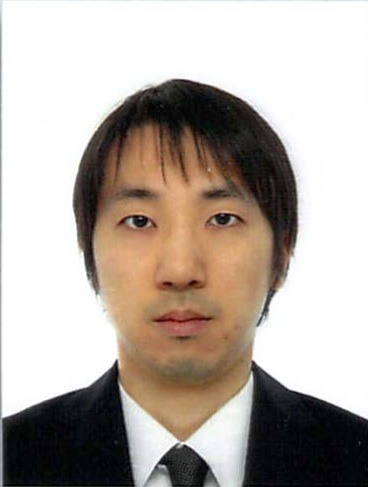
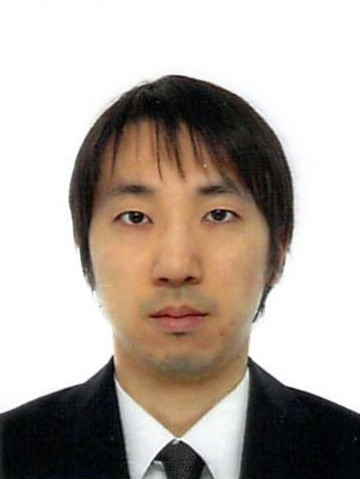
site: 著書セクションを追加し、写真・文言を先生のご指示どおりに更新
- 著書：日本語8冊・英語6冊の表紙を Apple のプロダクト棚として追加
  （§4 分人ファイアウォール検査済＝黒沢亜美名義の混入0件・陰性対照つき）
- 写真：Hidenori Tani color2.jpg（360x479）に差し替え
- 「RNA生物学」→「RNA生物学グループ」
- 日本語ページの見出しから「、」「。」を削除（本文の句読点は可読性のため保持）
- 「単著」の強調をやめ「グループから」に変更
- height:auto を追加＝height属性による縦横比の破壊を修正（写真が縦長に見えた原因）
- style.css にバージョンを付与＝更新がキャッシュで隠れないように

検証（実測・両ページ）：画像の読込失敗0・alt無0・縦横比の歪み0・拡大0／
h1は各1個／空リンク0／横スクロールなし／40px未満のタップ標的0／
面の並び 黒→黒→灰→白→黒→白→灰→黒／日本語見出し8本すべて句読点なし。

diff --git a/index.html b/index.html
@@ -6,7 +6,7 @@
 <title>谷英典 | 横浜薬科大学 薬学部 — RNA生物学グループ</title>
 <meta name="description" content="長鎖ノンコーディングRNA（lncRNA）の機能解明とRNA創薬。RNAがどれだけ生きるかを測る研究室。横浜薬科大学 薬学部 谷英典。">
 <link rel="icon" href="favicon.svg" type="image/svg+xml">
-<link rel="stylesheet" href="style.css?v=2023ac54">
+<link rel="stylesheet" href="style.css?v=f0f4de6f">
 </head>
 <body>
 
@@ -14,7 +14,7 @@
 <section class="panel panel--dark">
   <div class="wrap center">
     <p class="eyebrow">横浜薬科大学 薬学部　RNA生物学グループ</p>
-    <h1 class="display">RNAは、<br>どれだけ生きるのか。</h1>
+    <h1 class="display">RNAは<br>どれだけ生きるのか</h1>
     <p class="intro read">
       細胞のなかで、RNAはいつ作られ、いつ壊されるのか。
       私たちはその時間軸を測ることで、長鎖ノンコーディングRNA の
@@ -57,7 +57,7 @@
 <!-- ===== 数字 ===== -->
 <section class="panel panel--dark panel--tight">
   <div class="wrap center">
-    <h2 class="headline">単著で、積み上げてきた。</h2>
+    <h2 class="headline">グループから<br>積み上げてきた</h2>
     <div class="stats">
       <div class="stat rise"><span class="n">49</span><span class="k">原著論文</span></div>
       <div class="stat rise"><span class="n">22</span><span class="k">総説</span></div>
@@ -73,7 +73,7 @@
 <section class="panel panel--gray" id="research">
   <div class="wrap center">
     <p class="eyebrow">研究</p>
-    <h2 class="headline">3つの軸で、<br>時間を測る。</h2>
+    <h2 class="headline">3つの軸で<br>時間を測る</h2>
     <div class="grid3">
       <div class="card rise">
         <div class="n">01</div>
@@ -101,7 +101,7 @@
 <section class="panel">
   <div class="wrap center">
     <p class="eyebrow">lncRNA</p>
-    <h2 class="headline">タンパク質を<br>つくらないRNA。</h2>
+    <h2 class="headline">タンパク質を<br>つくらないRNA</h2>
     <p class="intro read">
       200ヌクレオチド以上の長さを持ちながら、タンパク質には翻訳されない。
       それでも細胞のなかで、遺伝子発現の調節から細胞の運命決定までを担っています。
@@ -121,8 +121,8 @@
 <section class="panel panel--dark" id="papers">
   <div class="wrap center">
     <p class="eyebrow">2026</p>
-    <h2 class="headline">この8か月に<br>出したもの。</h2>
-    <p class="intro read">12報。すべて単著。</p>
+    <h2 class="headline">この8か月に<br>出したもの</h2>
+    <p class="intro read">グループから12報</p>
     <ol class="papers" style="text-align:left">
       <li class="paper rise">
         <div class="paper__date">2026.08.26</div>
@@ -229,9 +229,9 @@
 <section class="panel">
   <div class="wrap center">
     <p class="eyebrow">谷 英典</p>
-    <h2 class="headline">測る方法を、<br>つくってきた。</h2>
+    <h2 class="headline">測る方法を<br>つくってきた</h2>
     <div class="person" style="text-align:left">
-      <figure><img src="assets/portrait.jpg" alt="谷英典の顔写真" width="368" height="487"><figcaption>谷 英典　博士（工学）</figcaption></figure>
+      <figure><img src="assets/portrait.jpg" alt="谷英典の顔写真" width="360" height="479"><figcaption>谷 英典　博士（工学）</figcaption></figure>
       <div class="body">
         <p>学部4年で常田聡研究室に配属され、産業技術総合研究所の野田尚宏博士のもとで研究を始めました。博士号を持つ3人が半年取り組んでいた課題を任され、公園を歩いて帰った日にひらめいた解法で解決しました。<strong>ABC-PCR法</strong>です。研究者として歩もうと決めたのは、この瞬間でした。</p>
         <p>東京大学の秋光信佳研究室では <strong>BRIC-seq</strong> を開発し、長鎖ノンコーディングRNA の分解速度をゲノム全体で測ることに成功しました。以来この時間軸が、研究の中心にあり続けています。</p>
@@ -248,10 +248,54 @@
   </div>
 </section>
 
-<!-- ===== 連絡先：薄灰 ===== -->
-<section class="panel panel--gray panel--tight">
+<!-- ===== 著書：薄灰 ===== -->
+<section class="panel panel--gray" id="books">
   <div class="wrap center">
-    <h2 class="headline">共同研究の<br>ご相談を。</h2>
+    <p class="eyebrow">著書</p>
+    <h2 class="headline">同じ問いを<br>本にも書いた</h2>
+    <p class="intro read">半減期のこと 分解のこと 老いていく時間のこと 研究室の外に向けても書いています</p>
+    <div class="shelf">
+        <a class="bk rise" href="https://www.amazon.co.jp/dp/B0DJYLCF1R">
+          <img src="assets/books/rnamrna-6c7377eb.jpg" alt="『RNA創薬革命』の表紙" width="325" height="520" loading="lazy">
+          <p class="bk__t">RNA創薬革命</p>
+        </a>
+        <a class="bk rise" href="https://www.amazon.co.jp/dp/B0H4ZHKY8T">
+          <img src="assets/books/seimei-no-hangenki.jpg" alt="『生命の半減期』の表紙" width="325" height="520" loading="lazy">
+          <p class="bk__t">生命の半減期</p>
+        </a>
+        <a class="bk rise" href="https://www.amazon.co.jp/dp/B0GX32J4RD">
+          <img src="assets/books/rna-no-kyokaisen.jpg" alt="『RNAという境界線』の表紙" width="325" height="520" loading="lazy">
+          <p class="bk__t">RNAという境界線</p>
+        </a>
+        <a class="bk rise" href="https://www.amazon.co.jp/dp/B0H3V9VWCP">
+          <img src="assets/books/kowasu-koto-de-ikiteiru.jpg" alt="『壊すことで生きている』の表紙" width="325" height="520" loading="lazy">
+          <p class="bk__t">壊すことで生きている</p>
+        </a>
+        <a class="bk rise" href="https://www.amazon.co.jp/dp/B0H54M8YSB">
+          <img src="assets/books/idenshi-ni-shirushi.jpg" alt="『遺伝子に印をつけて生きていく』の表紙" width="325" height="520" loading="lazy">
+          <p class="bk__t">遺伝子に印をつけて生きていく</p>
+        </a>
+        <a class="bk rise" href="https://www.amazon.co.jp/dp/B0H65NW324">
+          <img src="assets/books/aging-clock.jpg" alt="『老化時計の科学』の表紙" width="325" height="520" loading="lazy">
+          <p class="bk__t">老化時計の科学</p>
+        </a>
+        <a class="bk rise" href="https://www.amazon.co.jp/dp/B0H857FT9N">
+          <img src="assets/books/brain-aging-myths.jpg" alt="『40歳からの脳の守り方』の表紙" width="325" height="520" loading="lazy">
+          <p class="bk__t">40歳からの脳の守り方</p>
+        </a>
+        <a class="bk rise" href="https://www.amazon.co.jp/dp/B0DBV8DB3L">
+          <img src="assets/books/book-87f9b4f6.jpg" alt="『研究者として生き抜く全技術』の表紙" width="325" height="520" loading="lazy">
+          <p class="bk__t">研究者として生き抜く全技術</p>
+        </a>
+    </div>
+    <p style="margin-top:clamp(36px,5vw,56px)"><a class="link" href="https://hidenori-tani.github.io/hp_books_site/">すべての著書を見る</a></p>
+  </div>
+</section>
+
+<!-- ===== 連絡先：薄灰 ===== -->
+<section class="panel panel--dark panel--tight">
+  <div class="wrap center">
+    <h2 class="headline">共同研究の<br>ご相談を</h2>
     <p class="intro read">〒245-0066　神奈川県横浜市戸塚区俣野町601　横浜薬科大学 薬学部</p>
     <p style="margin-top:30px"><a class="btn" href="mailto:hidenori.tani@yok.hamayaku.ac.jp">メールで連絡する</a></p>
     <div class="links">

diff --git a/en.html b/en.html
@@ -6,7 +6,7 @@
 <title>Hidenori Tani | RNA Biology Group, Yokohama University of Pharmacy</title>
 <meta name="description" content="Hidenori Tani, Ph.D., Yokohama University of Pharmacy. We measure how long RNA lives, and use that time axis to work out what long noncoding RNAs do.">
 <link rel="icon" href="favicon.svg" type="image/svg+xml">
-<link rel="stylesheet" href="style.css?v=2023ac54">
+<link rel="stylesheet" href="style.css?v=f0f4de6f">
 </head>
 <body>
 
@@ -55,7 +55,7 @@
 
 <section class="panel panel--dark panel--tight">
   <div class="wrap center">
-    <h2 class="headline">Single-authored,<br>one paper at a time.</h2>
+    <h2 class="headline">Built up<br>paper by paper.</h2>
     <div class="stats">
       <div class="stat rise"><span class="n">49</span><span class="k">Original articles</span></div>
       <div class="stat rise"><span class="n">22</span><span class="k">Reviews</span></div>
@@ -117,7 +117,7 @@
   <div class="wrap center">
     <p class="eyebrow">2026</p>
     <h2 class="headline">Eight months<br>of output.</h2>
-    <p class="intro read">Twelve papers. Every one single-authored.</p>
+    <p class="intro read">Twelve papers from the group.</p>
     <ol class="papers" style="text-align:left">
       <li class="paper rise">
         <div class="paper__date">2026.08.26</div>
@@ -225,7 +225,7 @@
     <p class="eyebrow">Hidenori Tani, Ph.D.</p>
     <h2 class="headline">Building the tools<br>that do the measuring.</h2>
     <div class="person" style="text-align:left">
-      <figure><img src="assets/portrait.jpg" alt="Portrait of Hidenori Tani" width="368" height="487"><figcaption>Hidenori Tani, Ph.D.</figcaption></figure>
+      <figure><img src="assets/portrait.jpg" alt="Portrait of Hidenori Tani" width="360" height="479"><figcaption>Hidenori Tani, Ph.D.</figcaption></figure>
       <div class="body">
         <p>As a fourth-year undergraduate in Satoshi Tsuneda's laboratory, I began research under Dr. Naohiro Noda at AIST. I was handed a problem three Ph.D. holders had spent six months on, and solved it with an idea that arrived on the walk home from a park. That became <strong>ABC-PCR</strong>, and it is when I decided to be a scientist.</p>
         <p>In Nobuyoshi Akimitsu's laboratory at the University of Tokyo, I developed <strong>BRIC-seq</strong> and measured the decay rates of long noncoding RNAs genome-wide. That time axis has been at the centre of the work ever since.</p>
@@ -242,7 +242,43 @@
   </div>
 </section>
 
-<section class="panel panel--gray panel--tight">
+<!-- ===== Books ===== -->
+<section class="panel panel--gray" id="books">
+  <div class="wrap center">
+    <p class="eyebrow">Books</p>
+    <h2 class="headline">The same questions,<br>in book form.</h2>
+    <p class="intro read">Half-lives, decay, and the way time works on living things — written for readers outside the lab.</p>
+    <div class="shelf">
+        <a class="bk rise" href="https://www.amazon.com/dp/B0H54D7Y9C">
+          <img src="assets/books/the-half-life-of-life.jpg" alt="『The Half-Life of Life』の表紙" width="325" height="520" loading="lazy">
+          <p class="bk__t">The Half-Life of Life</p>
+        </a>
+        <a class="bk rise" href="https://www.amazon.com/dp/B0H3TG1VH1">
+          <img src="assets/books/the-fleeting-molecule.jpg" alt="『The Fleeting Molecule』の表紙" width="325" height="520" loading="lazy">
+          <p class="bk__t">The Fleeting Molecule</p>
+        </a>
+        <a class="bk rise" href="https://www.amazon.com/dp/B0H54Y6712">
+          <img src="assets/books/the-living-mark.jpg" alt="『The Living Mark』の表紙" width="325" height="520" loading="lazy">
+          <p class="bk__t">The Living Mark</p>
+        </a>
+        <a class="bk rise" href="https://www.amazon.com/dp/B0H65TSSS2">
+          <img src="assets/books/aging-clock-en.jpg" alt="『Reading the Aging Clock』の表紙" width="325" height="520" loading="lazy">
+          <p class="bk__t">Reading the Aging Clock</p>
+        </a>
+        <a class="bk rise" href="https://www.amazon.com/dp/B0GYLKJM6N">
+          <img src="assets/books/cracking-the-code-of-life.jpg" alt="『Cracking the Code of Life』の表紙" width="325" height="520" loading="lazy">
+          <p class="bk__t">Cracking the Code of Life</p>
+        </a>
+        <a class="bk rise" href="https://www.amazon.com/dp/B0GXRVS27Y">
+          <img src="assets/books/geniuses-2ee8d926.jpg" alt="『Geniuses Who Missed the Nobel Prize』の表紙" width="325" height="520" loading="lazy">
+          <p class="bk__t">Geniuses Who Missed the Nobel Prize</p>
+        </a>
+    </div>
+    <p style="margin-top:clamp(36px,5vw,56px)"><a class="link" href="https://hidenori-tani.github.io/hp_books_site/en.html">See every title</a></p>
+  </div>
+</section>
+
+<section class="panel panel--dark panel--tight">
   <div class="wrap center">
     <h2 class="headline">Let's collaborate.</h2>
     <p class="intro read">601 Matano, Totsuka, Yokohama 245-0066, Japan<br>Yokohama University of Pharmacy</p>

diff --git a/style.css b/style.css
@@ -183,3 +183,24 @@ h3.title{
   .rise{opacity:1;transform:none;transition:none}
   *{animation-duration:.001ms !important;transition-duration:.001ms !important}
 }
+
+/* ---- 著書（Apple のプロダクト棚） ---- */
+.shelf{
+  display:grid;gap:clamp(18px,2.4vw,30px);margin-top:clamp(44px,6vw,72px);
+  grid-template-columns:repeat(auto-fill,minmax(132px,1fr));
+}
+@media(min-width:700px){.shelf{grid-template-columns:repeat(auto-fill,minmax(158px,1fr))}}
+.bk{text-decoration:none;color:inherit;display:block}
+.bk img{
+  width:100%;height:auto;border-radius:8px;
+  box-shadow:0 2px 6px rgba(0,0,0,.16),0 14px 32px rgba(0,0,0,.14);
+  transition:transform .35s cubic-bezier(.28,.6,.3,1), box-shadow .35s;
+}
+.panel--dark .bk img{box-shadow:0 2px 8px rgba(0,0,0,.5),0 16px 38px rgba(0,0,0,.42)}
+.bk:hover img,.bk:focus-visible img{transform:translateY(-6px);box-shadow:0 6px 14px rgba(0,0,0,.2),0 22px 46px rgba(0,0,0,.2)}
+.bk__t{
+  margin:14px 0 0;font-size:13px;line-height:1.55;letter-spacing:-.004em;color:var(--ink-2);
+  text-align:left;
+}
+.panel--dark .bk__t{color:var(--paper-2)}
+@media(prefers-reduced-motion:reduce){.bk img{transition:none}.bk:hover img{transform:none}}
